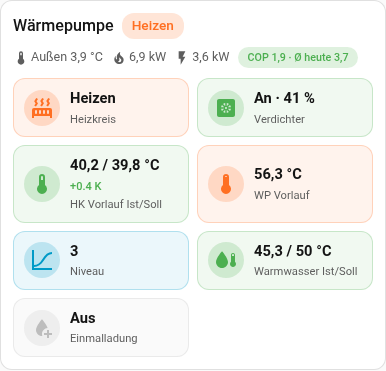
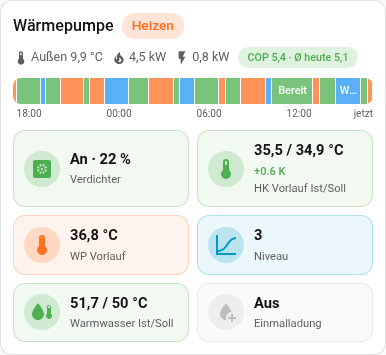
v0.4.0: operating state timeline, visual card editor
- Card: timeline bar of the operating state (recorder history, default 24 h)
  replaces the heating circuit tile; options timeline, hours_to_show
- Card: visual editor (title, timeline, hours, tiles with order,
  normal level helper, entity overrides)

diff --git a/custom_components/open3e_gateway/www/open3e-heatpump-card.js b/custom_components/open3e_gateway/www/open3e-heatpump-card.js
@@ -3,14 +3,17 @@
  *
  *   type: custom:open3e-heatpump-card
  *   title: Wärmepumpe                       # optional
- *   tiles: [circuit, compressor, ...]       # optional: which tiles, in which order
+ *   timeline: true                          # optional: operating state bar (default on)
+ *   hours_to_show: 24                       # optional: time span of the bar
+ *   tiles: [compressor, flow_hk, ...]       # optional: which tiles, in which order
  *   normal_level_entity: input_number.x     # optional: marks a raised heating curve
  *   entities: { flow_hk: sensor.my_flow }   # optional: override any entity
  *
  * Entities are found through the integration (websocket open3e_gateway/entities),
- * so renamed entities keep working. No external libraries.
+ * so renamed entities keep working. No external libraries. The card has a visual
+ * editor (ha-form).
  */
-const VERSION = "0.3.2";
+const VERSION = "0.4.0";
 
 // tile key -> integration entity key (unique id without the config entry prefix)
 const KEYS = {
@@ -42,14 +45,17 @@ const KEYS = {
 
 // flow_hk and dhw show actual / target in one tile; flow_target, dhw_set,
 // return and heater can still be added through `tiles`.
-const DEFAULT_TILES = ["circuit", "compressor", "flow_hk", "flow_wp", "level", "dhw", "one_time"];
+// The circuit tile was replaced by the operating state timeline; it can still be added.
+const DEFAULT_TILES = ["compressor", "flow_hk", "flow_wp", "level", "dhw", "one_time"];
+const DEFAULT_HOURS = 24;
+const HISTORY_REFRESH_MS = 5 * 60 * 1000;
 
 const TEXT = {
   de: {
     title: "Wärmepumpe", circuit: "Heizkreis", compressor: "Verdichter", flow_target: "Vorlauf-Soll",
     flow_hk: "HK Vorlauf Ist/Soll", flow_wp: "WP Vorlauf", return: "Rücklauf", level: "Niveau", dhw: "Warmwasser Ist/Soll", today: "Ø heute",
     dhw_set: "WW-Soll", one_time: "Einmalladung", heater: "Heizstab", outside: "Außen", errors: "Fehler",
-    power: "Leistung", on: "An", off: "Aus", missing: "Integration open3e Gateway nicht gefunden",
+    power: "Leistung", on: "An", off: "Aus", missing: "Integration open3e Gateway nicht gefunden", now: "jetzt",
     modes: { Off: "Aus", Heating: "Heizen", Automatic: "Automatik", Cooling: "Kühlen",
              "Parallel Operation: Heating HotWater": "Heizen + WW", "Parallel Operation: Heating Cooling": "Heizen/Kühlen",
              TestMode: "Test" },
@@ -58,7 +64,7 @@ const TEXT = {
     title: "Heat pump", circuit: "Heating circuit", compressor: "Compressor", flow_target: "Flow target",
     flow_hk: "Circuit flow act/target", flow_wp: "Heat pump flow", return: "Return", level: "Curve level", dhw: "Hot water act/target", today: "today",
     dhw_set: "DHW target", one_time: "One-time charge", heater: "Heater", outside: "Outside", errors: "errors",
-    power: "Power", on: "On", off: "Off", missing: "open3e Gateway integration not found", modes: {},
+    power: "Power", on: "On", off: "Off", missing: "open3e Gateway integration not found", now: "now", modes: {},
   },
 };
 
@@ -79,12 +85,24 @@ const C = {
   info: "var(--primary-color, #03a9f4)",
 };
 
+// Operating state -> colour, shared by the header chip and the timeline.
+const STATE_COLOR = { heating: C.heat, dhw: C.water, heater: C.bad, standby: C.ok, off: C.off };
+
 class Open3eHeatpumpCard extends HTMLElement {
   static getStubConfig() { return {}; }
+
+  static async getConfigElement() {
+    await ensureHaForm();
+    return document.createElement("open3e-heatpump-card-editor");
+  }
 
   setConfig(config) {
     this._config = { ...(config || {}) };
     if (this._config.tiles && !Array.isArray(this._config.tiles)) throw new Error("tiles must be a list");
+    const h = this._config.hours_to_show;
+    if (h !== undefined && !(Number(h) > 0)) throw new Error("hours_to_show must be a positive number");
+    this._hist = null;
+    this._histKey = null;
     this._sig = null;
     if (this._hass) this._render();
   }
@@ -93,6 +111,102 @@ class Open3eHeatpumpCard extends HTMLElement {
     this._hass = hass;
     if (!this._map && !this._loading) this._load();
     this._render();
+  }
+
+  connectedCallback() {
+    // Redraw once a minute so the bar moves on, and reload the history now and then.
+    this._timer = setInterval(() => {
+      if (this._histAt && Date.now() - this._histAt > HISTORY_REFRESH_MS) this._histKey = null;
+      this._render();
+    }, 60 * 1000);
+    if (this._hass) this._render();
+  }
+
+  disconnectedCallback() { clearInterval(this._timer); }
+
+  _hours() { return Number(this._config.hours_to_show) > 0 ? Number(this._config.hours_to_show) : DEFAULT_HOURS; }
+
+  _showTimeline() { return this._config.timeline !== false; }
+
+  // Loads the state history of the operating state sensor (needs the recorder).
+  async _loadHistory(id) {
+    const key = `${id}|${this._hours()}`;
+    if (this._histKey === key || this._histLoading) return;
+    this._histLoading = true;
+    this._histKey = key;
+    const start = new Date(Date.now() - this._hours() * 3600 * 1000);
+    try {
+      const res = await this._hass.callWS({
+        type: "history/history_during_period", start_time: start.toISOString(), entity_ids: [id],
+        minimal_response: true, no_attributes: true, significant_changes_only: false,
+      });
+      this._hist = (res[id] || []).map((e) => ({ s: e.s, t: 1000 * (e.lc ?? e.lu) }));
+    } catch (e) {
+      this._hist = [];
+    }
+    this._histAt = Date.now();
+    this._histLoading = false;
+    this._sig = null;
+    this._render();
+  }
+
+  // Segments [{s, from, to}] over the shown period, merged, with the live state at the end.
+  _segments(id) {
+    const now = Date.now();
+    const start = now - this._hours() * 3600 * 1000;
+    const pts = [...(this._hist || [])];
+    const cur = this._hass.states[id];
+    if (cur) {
+      const t = new Date(cur.last_changed).getTime();
+      if (!pts.length || pts[pts.length - 1].s !== cur.state) pts.push({ s: cur.state, t: Math.max(t, pts.length ? pts[pts.length - 1].t : t) });
+    }
+    const segs = [];
+    pts.forEach((p, i) => {
+      const from = Math.max(p.t, start);
+      const to = i + 1 < pts.length ? Math.min(pts[i + 1].t, now) : now;
+      if (to <= from) return;
+      const last = segs[segs.length - 1];
+      if (last && last.s === p.s) last.to = to;
+      else segs.push({ s: p.s, from, to });
+    });
+    return { segs, start, now };
+  }
+
+  _timeline() {
+    const id = this._id("state");
+    if (!id || !this._showTimeline()) return "";
+    this._loadHistory(id);
+    const { segs, start, now } = this._segments(id);
+    const span = now - start;
+    const lang = this._hass.locale?.language || "en";
+    const time = (ms) => new Date(ms).toLocaleTimeString(lang, { hour: "2-digit", minute: "2-digit" });
+    const dur = (ms) => {
+      const m = Math.round(ms / 60000);
+      return m < 60 ? `${m} min` : `${Math.floor(m / 60)} h ${String(m % 60).padStart(2, "0")} min`;
+    };
+    const stateObj = this._hass.states[id];
+    const label = (s) => ["unavailable", "unknown"].includes(s) ? "–"
+      : stateObj && this._hass.formatEntityState ? this._hass.formatEntityState(stateObj, s) : s;
+    const bars = segs.map((g) => {
+      const left = ((g.from - start) / span) * 100, width = ((g.to - g.from) / span) * 100;
+      const color = STATE_COLOR[g.s] || C.off;
+      const text = label(g.s);
+      return `<div class="seg" style="left:${left}%;width:${width}%;--c:${color}"
+        title="${text}: ${time(g.from)}–${time(g.to)} (${dur(g.to - g.from)})">${width >= 7 ? `<span>${text}</span>` : ""}</div>`;
+    }).join("");
+    // Axis: full hours, at most about five labels.
+    const hours = this._hours();
+    const step = [1, 2, 3, 4, 6, 12, 24, 48].find((x) => hours / x <= 5) || Math.ceil(hours / 5);
+    const ticks = [];
+    const first = new Date(start); first.setMinutes(0, 0, 0); first.setHours(first.getHours() + 1);
+    for (let t = first.getTime(); t < now; t += 3600 * 1000) {
+      const d = new Date(t);
+      const pos = ((t - start) / span) * 100;
+      if (d.getHours() % step === 0 && pos > 4 && pos < 92) ticks.push(`<span style="left:${pos}%">${time(t)}</span>`);
+    }
+    return `<div class="timeline click" data-entity="${id}">
+      <div class="bar">${bars}</div>
+      <div class="axis">${ticks.join("")}<span class="end">${this._t().now}</span></div></div>`;
   }
 
   getCardSize() { return 4; }
@@ -220,7 +334,7 @@ class Open3eHeatpumpCard extends HTMLElement {
     const t = this._t();
     const st = this._st("state");
     const key = st?.state;
-    const color = { heating: C.heat, dhw: C.water, heater: C.bad, standby: C.ok, off: C.off }[key] || C.off;
+    const color = STATE_COLOR[key] || C.off;
     const chip = st ? `<span class="chip" style="--c:${color}">${this._fmt("state")}</span>` : "";
     const cop = this._num("cop");
     // Daily COP from the heat pump's own energy counters (heating + hot water).
@@ -252,14 +366,15 @@ class Open3eHeatpumpCard extends HTMLElement {
     if (!this.shadowRoot) this.attachShadow({ mode: "open" });
     const tiles = this._config.tiles || DEFAULT_TILES;
     const ids = [...new Set([...Object.keys(KEYS).map((k) => this._id(k)), this._config.normal_level_entity])].filter(Boolean);
-    const sig = (this._error || "") + this._hass.language + ids.map((i) => {
+    const sig = (this._error || "") + this._hass.language + (this._hist ? this._hist.length : "-")
+      + Math.floor(Date.now() / 60000) + ids.map((i) => {
       const s = this._hass.states[i]; return s ? s.state + s.last_updated : "-";
     }).join("|");
     if (sig === this._sig) return;
     this._sig = sig;
     const body = this._error
       ? `<div class="err">${this._t().missing}</div>`
-      : !this._map ? "" : `${this._header()}<div class="grid">${tiles.filter((x) => KEYS[x] || ICONS[x]).map((x) => this._tile(x)).join("")}</div>`;
+      : !this._map ? "" : `${this._header()}${this._timeline()}<div class="grid">${tiles.filter((x) => KEYS[x] || ICONS[x]).map((x) => this._tile(x)).join("")}</div>`;
     this.shadowRoot.innerHTML = `<style>${STYLE}</style><ha-card>${body}</ha-card>`;
     this.shadowRoot.querySelectorAll(".click").forEach((el) => {
       const entityId = el.dataset.entity;
@@ -293,7 +408,105 @@ const STYLE = `
   .name { font-size: 0.8em; color: var(--secondary-text-color); white-space: nowrap; overflow: hidden; text-overflow: ellipsis; }
   .click { cursor: pointer; }
   .err { color: var(--error-color, #db4437); padding: 8px; }
+  .timeline { margin-bottom: 10px; }
+  .bar { position: relative; height: 26px; border-radius: 8px; overflow: hidden;
+         background: color-mix(in srgb, var(--disabled-color, #9e9e9e) 15%, transparent); }
+  .seg { position: absolute; top: 0; bottom: 0; display: flex; align-items: center; justify-content: center;
+         background: color-mix(in srgb, var(--c) 75%, var(--card-background-color, #fff));
+         box-shadow: inset -1px 0 0 var(--card-background-color, #fff); overflow: hidden; }
+  .seg span { font-size: 0.78em; font-weight: 500; color: #fff; padding: 0 4px;
+              white-space: nowrap; overflow: hidden; text-overflow: ellipsis; }
+  .axis { position: relative; height: 14px; margin-top: 2px; font-size: 0.72em; color: var(--secondary-text-color); }
+  .axis span { position: absolute; transform: translateX(-50%); white-space: nowrap; }
+  .axis span.end { right: 0; transform: none; }
 `;
+
+// ha-form is only defined once HA has loaded it; an entities card editor pulls it in.
+async function ensureHaForm() {
+  if (customElements.get("ha-form")) return;
+  try {
+    const helpers = await window.loadCardHelpers();
+    const card = await helpers.createCardElement({ type: "entities", entities: [] });
+    await card.constructor.getConfigElement();
+  } catch (e) { /* the editor falls back to YAML if ha-form is missing */ }
+}
+
+const EDITOR_TEXT = {
+  de: {
+    title: "Titel", timeline: "Verlauf Betriebszustand anzeigen", hours_to_show: "Stunden im Verlauf",
+    tiles: "Kacheln (Reihenfolge per Ziehen)", normal_level_entity: "Normales Heizkurven-Niveau (Helfer)",
+    entities: "Entitäten überschreiben (optional)", state: "Betriebszustand",
+  },
+  en: {
+    title: "Title", timeline: "Show operating state timeline", hours_to_show: "Hours in timeline",
+    tiles: "Tiles (drag to reorder)", normal_level_entity: "Normal curve level (helper)",
+    entities: "Override entities (optional)", state: "Operating state",
+  },
+};
+
+const TILE_CHOICES = ["compressor", "flow_hk", "flow_wp", "level", "dhw", "one_time", "circuit", "flow_target", "return", "dhw_set", "heater"];
+
+class Open3eHeatpumpCardEditor extends HTMLElement {
+  setConfig(config) {
+    this._config = { ...(config || {}) };
+    this._update();
+  }
+
+  set hass(hass) {
+    this._hass = hass;
+    this._update();
+  }
+
+  _lang() { return (this._hass?.locale?.language || this._hass?.language || "en").startsWith("de") ? "de" : "en"; }
+
+  _schema() {
+    const t = TEXT[this._lang()];
+    return [
+      { name: "title", selector: { text: {} } },
+      { type: "grid", name: "", schema: [
+        { name: "timeline", selector: { boolean: {} } },
+        { name: "hours_to_show", selector: { number: { min: 1, max: 168, step: 1, mode: "box", unit_of_measurement: "h" } } },
+      ] },
+      { name: "tiles", selector: { select: { multiple: true, reorder: true,
+        options: TILE_CHOICES.map((k) => ({ value: k, label: t[k] || k })) } } },
+      { name: "normal_level_entity", selector: { entity: { domain: ["input_number", "number"] } } },
+      { type: "expandable", name: "entities", title: EDITOR_TEXT[this._lang()].entities, schema:
+        ["state", ...TILE_CHOICES, "compressor_speed", "dhw_hyst_on", "dhw_charging", "outside", "cop", "power_el", "power_th"]
+          .map((k) => ({ name: k, selector: { entity: {} } })) },
+    ];
+  }
+
+  _update() {
+    if (!this._hass || !this._config) return;
+    if (!this._form) {
+      this._form = document.createElement("ha-form");
+      this._form.computeLabel = (s) => EDITOR_TEXT[this._lang()][s.name] || TEXT[this._lang()][s.name] || s.name;
+      this._form.addEventListener("value-changed", (ev) => this._changed(ev.detail.value));
+      this.appendChild(this._form);
+    }
+    this._form.hass = this._hass;
+    this._form.schema = this._schema();
+    this._form.data = { timeline: true, hours_to_show: DEFAULT_HOURS, tiles: DEFAULT_TILES, ...this._config };
+  }
+
+  _changed(value) {
+    const cfg = { ...this._config, ...value };
+    // Keep the YAML short: drop defaults and empty values.
+    if (cfg.timeline === true) delete cfg.timeline;
+    if (Number(cfg.hours_to_show) === DEFAULT_HOURS || cfg.hours_to_show === undefined || cfg.hours_to_show === null) delete cfg.hours_to_show;
+    if (Array.isArray(cfg.tiles) && cfg.tiles.join() === DEFAULT_TILES.join()) delete cfg.tiles;
+    if (!cfg.title) delete cfg.title;
+    if (!cfg.normal_level_entity) delete cfg.normal_level_entity;
+    if (cfg.entities) {
+      const e = Object.fromEntries(Object.entries(cfg.entities).filter(([, v]) => v));
+      if (Object.keys(e).length) cfg.entities = e; else delete cfg.entities;
+    }
+    this._config = cfg;
+    this.dispatchEvent(new CustomEvent("config-changed", { detail: { config: cfg }, bubbles: true, composed: true }));
+  }
+}
+
+if (!customElements.get("open3e-heatpump-card-editor")) customElements.define("open3e-heatpump-card-editor", Open3eHeatpumpCardEditor);
 
 if (!customElements.get("open3e-heatpump-card")) {
   customElements.define("open3e-heatpump-card", Open3eHeatpumpCard);
@@ -301,7 +514,7 @@ if (!customElements.get("open3e-heatpump-card")) {
   window.customCards.push({
     type: "open3e-heatpump-card",
     name: "open3e Wärmepumpe",
-    description: "Heat pump overview: circuit, compressor, flow temperatures, curve level, hot water (open3e Gateway).",
+    description: "Heat pump overview: operating state timeline, compressor, flow temperatures, curve level, hot water (open3e Gateway).",
     preview: true,
     documentationURL: "https://github.com/kienxux/ha-open3e-gateway",
   });

diff --git a/README.md b/README.md
@@ -35,7 +35,8 @@ uses the gateway's local HTTP API. MQTT is not needed.
 ## Heat pump card
 
 The integration brings its own dashboard card; no extra resource is needed.
-Add it via *Add card* (search for "open3e") or in YAML:
+Add it via *Add card* (search for "open3e"); all options can be set in the
+visual editor. In YAML:
 
 ```yaml
 type: custom:open3e-heatpump-card
@@ -46,12 +47,18 @@ normal_level_entity: input_number.wp_niveau_normal   # optional
 
 Header: operating state, outside temperature, heat and electrical power,
 COP now and today's average (from the heat pump's energy counters; the colour
-follows today's value), active errors. Tiles (tap for details / to change a
-setpoint):
+follows today's value), active errors.
+
+Below the header a timeline shows the operating state over the last 24 h
+(standby green, heating orange, hot water blue, electric heater red; hover for
+the times, tap for the history). It reads the recorder history, so it needs the
+`recorder` (on by default) and fills up from the time the integration was
+installed.
+
+Tiles (tap for details / to change a setpoint):
 
 | Tile | Shows | Colour |
 |---|---|---|
-| Heating circuit | mode | orange = heating, grey = off |
 | Compressor | on/off + speed | green = running |
 | HK Vorlauf Ist/Soll | circuit flow / flow setpoint, deviation in K | green within ±2 K, blue below, orange above |
 | WP Vorlauf | heat pump flow | orange = heating, blue = hot water, grey = idle |
@@ -59,8 +66,9 @@ setpoint):
 | Warmwasser Ist/Soll | tank / setpoint (tap to change the setpoint) | blue = charging, red = below the switch-on point, green = ok |
 | Einmalladung | one-time charge | blue = on |
 
-Options: `title`, `tiles` (list and order; default circuit, compressor,
-flow_hk, flow_wp, level, dhw, one_time; also available: flow_target, dhw_set,
+Options: `title`, `timeline` (default `true`), `hours_to_show` (default 24),
+`tiles` (list and order; default compressor, flow_hk, flow_wp, level, dhw,
+one_time; also available: circuit (heating circuit mode), flow_target, dhw_set,
 return, heater), `entities` (override any entity, e.g. `flow_hk: sensor.x`),
 `entry_id`.
 
